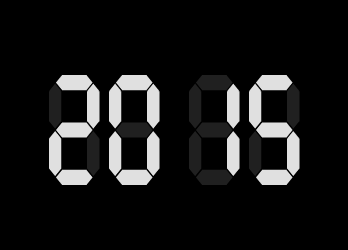
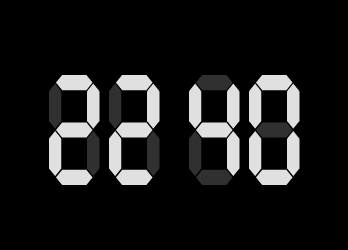
Tweak color palettes Allow for pure blac for inactive segments Lighten a bit the other inactive colors

Changed region(s): [[0.3161, 0.336, 0.4598, 0.7], [0.7184, 0.336, 0.8621, 0.7], [0.546, 0.336, 0.6897, 0.56]]

diff --git a/settings/index.tsx b/settings/index.tsx
@@ -1,28 +1,32 @@
-import { defaultConfig, colorPalettes } from '../shared/config';
+import { defaultConfig, activeColors, inactiveColors } from '../shared/config';
 import {
 	SETTING_KEY_COLOR_ON,
 	SETTING_KEY_COLOR_OFF,
 } from '../shared/settings';
-
-const palletes = [
-	colorPalettes.white,
-	colorPalettes.red,
-	colorPalettes.green,
-	colorPalettes.blue,
-];
 
 registerSettingsPage(() => (
 	<Section title="Colors">
 		<Text>On</Text>
 		<ColorSelect
 			value={defaultConfig.colors.on}
-			colors={palletes.map(({ on }) => ({ color: on }))}
+			colors={[
+				activeColors.white,
+				activeColors.red,
+				activeColors.green,
+				activeColors.blue,
+			].map(color => ({ color }))}
 			settingsKey={SETTING_KEY_COLOR_ON}
 		/>
 		<Text>Off</Text>
 		<ColorSelect
 			value={defaultConfig.colors.on}
-			colors={palletes.map(({ off }) => ({ color: off }))}
+			colors={[
+				inactiveColors.none,
+				inactiveColors.gray,
+				inactiveColors.red,
+				inactiveColors.green,
+				inactiveColors.blue,
+			].map(color => ({ color }))}
 			settingsKey={SETTING_KEY_COLOR_OFF}
 		/>
 	</Section>

diff --git a/shared/config.ts b/shared/config.ts
@@ -5,25 +5,24 @@ export type Config = {
 	};
 };
 
-export const colorPalettes = {
-	white: {
-		on: '#e0e0e0',
-		off: '#202020',
-	},
-	red: {
-		on: '#c00000',
-		off: '#300000',
-	},
-	green: {
-		on: '#00c000',
-		off: '#003000',
-	},
-	blue: {
-		on: '#3333e0',
-		off: '#000030',
-	},
+export const activeColors = {
+	white: '#e0e0e0',
+	red: '#c00000',
+	green: '#00c000',
+	blue: '#3333e0',
+};
+
+export const inactiveColors = {
+	none: '#000000',
+	gray: '#303030',
+	red: '#300000',
+	green: '#003000',
+	blue: '#000030',
 };
 
 export const defaultConfig: Config = {
-	colors: colorPalettes.white,
+	colors: {
+		on: activeColors.white,
+		off: inactiveColors.gray,
+	},
 };

diff --git a/companion/index.ts b/companion/index.ts
@@ -6,7 +6,20 @@ import {
 	SETTING_KEY_COLOR_OFF,
 } from '../shared/settings';
 
-import type { Config } from '../shared/config';
+import { Config, defaultConfig } from '../shared/config';
+
+if (!settingsStorage.getItem(SETTING_KEY_COLOR_ON)) {
+	settingsStorage.setItem(
+		SETTING_KEY_COLOR_ON,
+		JSON.stringify(defaultConfig.colors.on),
+	);
+}
+if (!settingsStorage.getItem(SETTING_KEY_COLOR_OFF)) {
+	settingsStorage.setItem(
+		SETTING_KEY_COLOR_OFF,
+		JSON.stringify(defaultConfig.colors.off),
+	);
+}
 
 settingsStorage.addEventListener('change', () => {
 	const colorOn = settingsStorage.getItem(SETTING_KEY_COLOR_ON);

diff --git a/doc/README-es.md b/doc/README-es.md
@@ -4,6 +4,5 @@ Reloj sencillo basado en pantallas de 7 segmentos
 
 Es un reloj gratuito hecho con código abierto también gratuito.
 Puedes verlo aquí: https://github.com/SergioMorchon/fitbit-7-segment-watch
-
 Gran parte del código que publico es con el propósito de aprender, y el motivo detrás de hacerlo público es que aprendamos juntos.
 También puedes ver otros proyectos a los que doy soporte y que permite también a otros desarrolladores de Fitbit crear grandes cosas para ti: https://github.com/SergioMorchon?tab=repositories&q=fitbit
